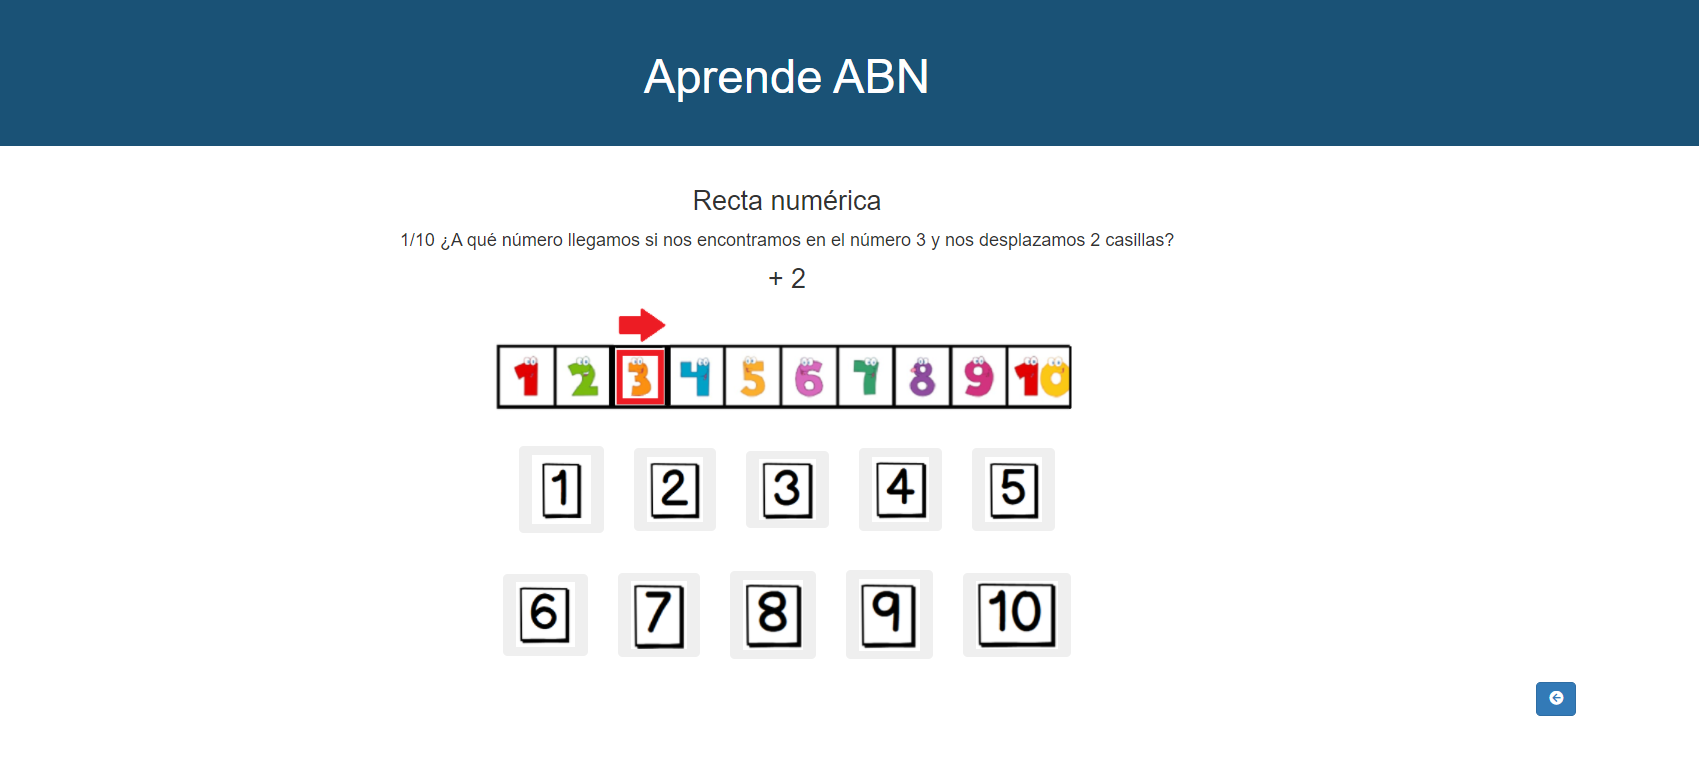
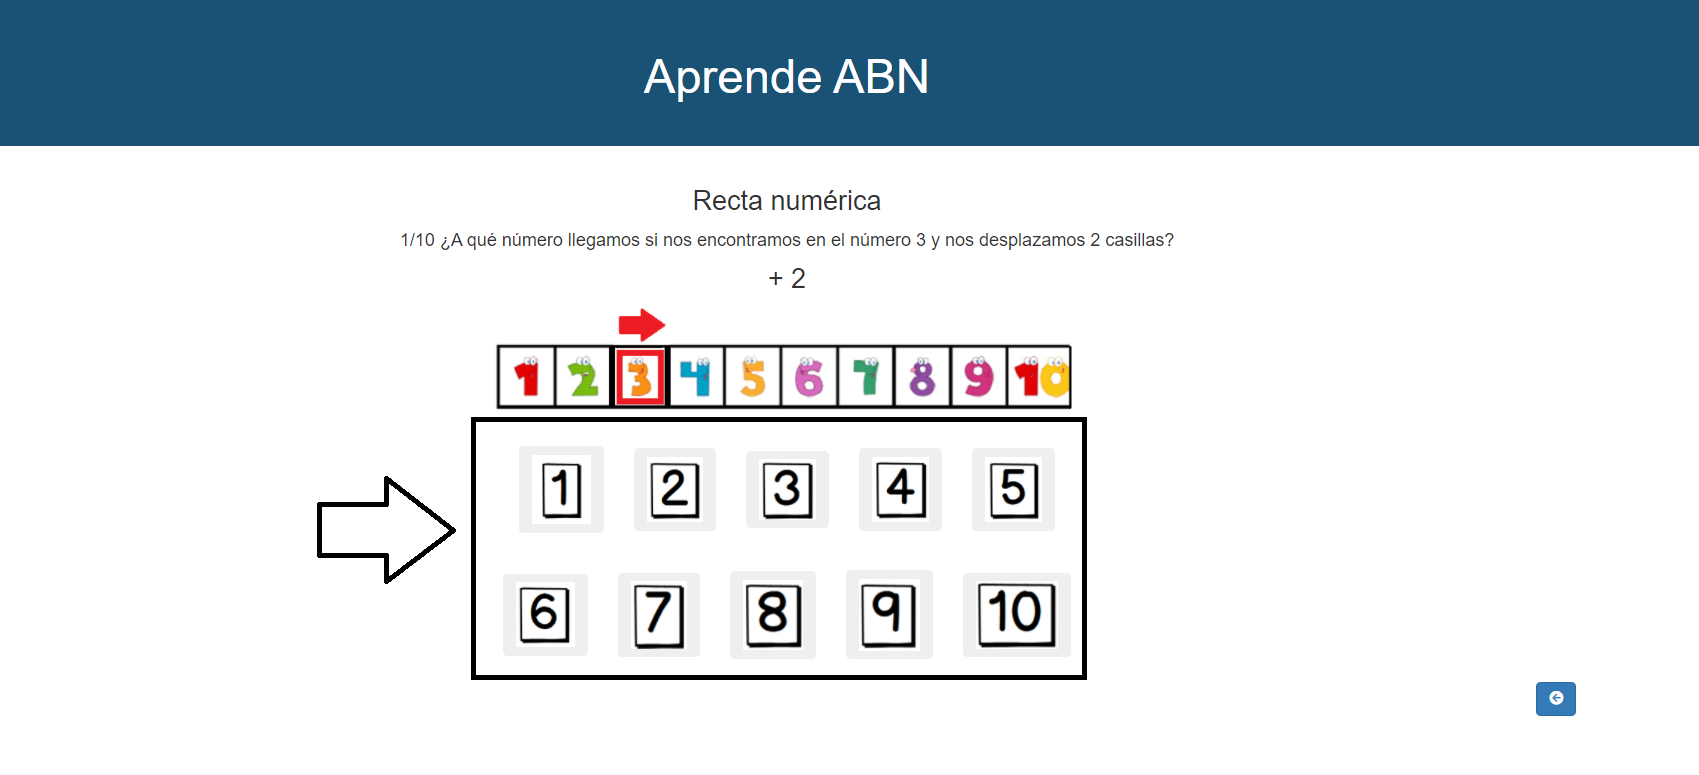
v1.0.11 Eliminar Clase

diff --git a/cliente/src/controlWeb.js b/cliente/src/controlWeb.js
@@ -7,7 +7,8 @@ function ControlWeb($){
 		cadena=cadena +'<h1>¡Bienvenid@ a Aprende ABN!</h1>';
 		cadena=cadena +'<h3>Para comenzar cree una clase</h3>';
 		cadena=cadena +'<h3>Si ya ha creado una pulse "Buscar Clase"</h3>';
-		cadena=cadena+'<button type="button" id="btnCrearClase" class="btn btn-success  btn-lg"><i class="fas fa-plus"></i> Crear Clase</button>';
+		cadena=cadena + '<h3>Para eliminar una clase ya creada pulse "Crear/Eliminar Clase"</h3>';
+		cadena=cadena+'<button type="button" id="btnCrearClase" class="btn btn-success  btn-lg"><i class="fas fa-plus"></i> Crear/Eliminar Clase</button>';
 		cadena=cadena +'<h4></h4>';
 		cadena=cadena+'<button type="button" id="btnBuscarClase" class="btn btn-danger btn-lg"><i class="fas fa-search"></i> Buscar clase</button>';
 		cadena=cadena +'</div>';
@@ -124,8 +125,9 @@ function ControlWeb($){
 		cadena=cadena +'<label class="pull-left"  for ="numero">Numero de participantes:</label>';
 		cadena=cadena +'<input type="number" class="form-control" size="50" id="numero" min="1" max="12" placeholder="Numero de alumnos de la clase (1-12)">';
 		cadena=cadena +'</div>';
-		cadena=cadena+'<button type="button" id="btnCrearClase" class="btn btn-success btn-lg"><span class="fas fa-plus"></span> Crear Clase</button>';
-		cadena=cadena+'<button type="button" id="btnAtras" class="btn btn-primary btn-lg pull-right"><i class="fas fa-arrow-circle-left"></i></button>';
+		cadena=cadena+'<button type="button" id="btnCrearClase" class="btn btn-success btn-lg" style="margin: 20px"><span class="fas fa-plus"></span> Crear Clase</button>';
+		cadena=cadena+'<button type="button" id="btnEliminarClase" class="btn btn-danger btn-lg" style="margin: 20px"><i class="fas fa-times"></i> Eliminar Clase</button>';
+		cadena=cadena+'<button type="button" id="btnAtras" class="btn btn-primary btn-lg pull-right" style="margin: 20px"><i class="fas fa-arrow-circle-left"></i></button>';
 		cadena=cadena +'</div>';
 		$('#crearClase').append(cadena);
 		$('#btnCrearClase').on('click',function(){
@@ -136,9 +138,18 @@ function ControlWeb($){
 				ws.crearClase(nclase,profesor,numero);
 			}
 		});
+		$('#btnEliminarClase').on('click',function(){
+			var nclase=$('#nclase').val();
+			if(nclase!=""){
+				ws.eliminarClase(nclase);
+			}
+		});
 		$('#btnInfo').on('click',function(){
 			var msg="Para poder completar el registro de la clase con éxito será necesario rellenar todos los campos que se muestran.";
 			msg=msg+"No se podrá crear una clase con más de 12 alumnos y tampoco se creará la clase si ya exite una clase con dicho nombre.";
+			msg=msg+"<img src='cliente/images/help/28.png' width='700' height='350'></img><p></p>";
+			msg=msg+"Para eliminar una de las clases simplemente hay que introducir el nombre exacto de la clase y despues clicar en eliminar";
+			msg=msg+"<img src='cliente/images/help/29.png' width='700' height='350'></img><p></p>";
 			cw.mostrarModal(msg);
 		});
 		$('#btnAtras').on('click',function(){
@@ -281,7 +292,7 @@ function ControlWeb($){
 			cw.mostrarModal(msg);
 		});
 		}else{
-			cadena=cadena+'<button type="button" id="btnInfo" class="btn btn-success btn-sm pull-right"><i class="fas fa-question-circle"></i></button>';
+			cadena=cadena+'<button type="button" id="btnInfo" class="btn btn-success btn-sm "><i class="fas fa-question-circle"></i></button>';
 			cadena=cadena+'<button type="button" id="btnAtras" class="btn btn-primary btn-lg pull-right"><i class="fas fa-arrow-circle-left"></i></button>';
 			cadena =cadena+ '</div>';
 			$('#listarClases').append(cadena);
@@ -806,6 +817,13 @@ function ControlWeb($){
 		$('#btnAtras').on('click',function(){
 			cw.mostrarEjercicios4();
 		});
+		$('#btnInfo').on('click',function(){
+			var msg="Selecciona el número de objetos de la imagen pulsando uno de los botones que contengan números";
+			msg=msg+"<img src='cliente/images/help/26.png' width='700' height='350' ></img><p></p>";
+			msg=msg+"Una vez seleccionado ese botón se mostrará si la solucion es o no correcta y para continuar se deberá de clicar el boton 'Siguiente'";
+			msg=msg+"<img src='cliente/images/help/27.png' width='700' height='350' ></img><p></p>";
+			cw.mostrarModal(msg);
+		});
 	}
 	//Función para comprobar que la opción elegida corresponde con la solucíon al 2º ejercicio para niños de 4 años
 	this.comprobar42=function(e42,num,score,b){
@@ -949,6 +967,13 @@ function ControlWeb($){
 				cw.resultado51(e51,num,score,count,"btn-danger",m);
 			}
 		});
+		$('#btnInfo').on('click',function(){
+			var msg="Pulse en la imagen de la mano hasta encontrar la solucion correcta despues clique en 'Hecho'";
+			msg=msg+"<img src='cliente/images/help/16.png' width='700' height='350' ></img><p></p>";
+			msg=msg+"Una vez seleccionado ese botón se mostrará si la solucion es o no correcta y para continuar se deberá de clicar el boton 'Siguiente'";
+			msg=msg+"<img src='cliente/images/help/17.png' width='700' height='350' ></img><p></p>";
+			cw.mostrarModal(msg);
+		});
 	}
 	//Interfaz para mostrar la retroalimentación del ejercicio 1º para niños de cinco años
 	this.resultado51=function(e51,num,score,count,b,m){
@@ -1019,6 +1044,13 @@ function ControlWeb($){
 				cw.resultado52(e52,num,score,count,"btn-danger",m);
 			}
 
+		});
+		$('#btnInfo').on('click',function(){
+			var msg="Pulse en la imagen de la mano hasta encontrar la solucion correcta despues clique en 'Hecho'";
+			msg=msg+"<img src='cliente/images/help/18.png' width='700' height='350' ></img><p></p>";
+			msg=msg+"Una vez seleccionado ese botón se mostrará si la solucion es o no correcta y para continuar se deberá de clicar el boton 'Siguiente'";
+			msg=msg+"<img src='cliente/images/help/19.png' width='700' height='350' ></img><p></p>";
+			cw.mostrarModal(msg);
 		});
 	}
 
@@ -1258,6 +1290,15 @@ function ControlWeb($){
 		$('#btnAtras').on('click',function(){
 			cw.mostrarEjercicios1();
 		});
+		$('#btnInfo').on('click',function(){
+			var msg="Pulse en los distintos botones de 'Elegir'";
+			msg=msg+"<img src='cliente/images/help/20.png' width='700' height='400' ></img><p></p>";
+			msg=msg+"Seleccione uno de las opciones que se le proporcionan";
+			msg=msg+"<img src='cliente/images/help/21.png' width='700' height='400' ></img><p></p>";
+			msg=msg+"Para continuar con el siguiente ejercicio pulse 'Siguiente'";
+			msg=msg+"<img src='cliente/images/help/22.png' width='700' height='400' ></img><p></p>";
+			cw.mostrarModal(msg);
+		});
 	}
 	this.ejercicio12=function(e12,score,btn,btn2){
 		this.limpiar();
@@ -1420,6 +1461,16 @@ function ControlWeb($){
 		});
 		$('#btnAtras').on('click',function(){
 			cw.mostrarEjercicios1();
+		});
+
+		$('#btnInfo').on('click',function(){
+			var msg="Pulse en los distintos botones de 'Elegir'";
+			msg=msg+"<img src='cliente/images/help/23.png' width='700' height='400' ></img><p></p>";
+			msg=msg+"Seleccione uno de las opciones que se le proporcionan";
+			msg=msg+"<img src='cliente/images/help/24.png' width='700' height='400' ></img><p></p>";
+			msg=msg+"Para continuar con el siguiente ejercicio pulse 'Siguiente'";
+			msg=msg+"<img src='cliente/images/help/25.png' width='700' height='400' ></img><p></p>";
+			cw.mostrarModal(msg);
 		});
 	}
 

diff --git a/servidor/modelo.js b/servidor/modelo.js
@@ -15,6 +15,19 @@ function ABN(){
 		}
 
 	}
+	//Funcion para eliminar clases introduciendo su numbre
+	this.eliminarClase=function(nclase){
+		if(this.clases[nclase]){
+			this.puedeEliminarClase(nclase);
+			return nclase;
+		}else{
+			return undefined;
+		}
+	}
+
+	this.puedeEliminarClase=function(nclase){
+		delete this.clases[nclase];
+	}
 	//Se comprueban los límites de alumnos para la creación de clases
 	//En este caso, el número mínimo de alumnos que pueden estar en una clase es 1,
 	//y el número máximo de alumnos por clase es de 40
@@ -56,6 +69,7 @@ function ABN(){
 		return lista;
 
 	}
+	//Método necesaria para poder eliminar a los alumnos de una determinada clase
 	this.eliminarAlumno=function(nclase,nombre){
 		var lista=[];
 		lista=this.clases[nclase].eliminarAlumno(nombre);

diff --git a/cliente/src/clienteWS.js b/cliente/src/clienteWS.js
@@ -11,6 +11,9 @@ function ClienteWS(){
 		this.nclase=nclase;
 		this.socket.emit("crearClase",nclase,profesor,numParticipantes);
 	}
+	this.eliminarClase=function(nclase){
+		this.socket.emit("eliminarClase",nclase);
+	}
 	this.listaClases=function(){
 		this.socket.emit("listarClases");
 	}
@@ -49,6 +52,10 @@ function ClienteWS(){
 				console.log("La clase no se ha creado correctamente: es indefinida");
 				cw.mostrarModal(" No se puede crear la clase ya que: <p>1.Ya existe una clase con ese nombre</p><p>2.No ha rellenado todos los campos</p>");
 			}
+		});
+		this.socket.on("claseEliminada",function(data){
+			cw.mostrarInicio();
+			cw.mostrarModal(" Clase "+nclase+" eliminada");
 		});
 		this.socket.on("mostrarLista",function(lista){
 			console.log(lista);

diff --git a/servidor/servidorWS.js b/servidor/servidorWS.js
@@ -26,6 +26,14 @@ function ServidorWS(){
                 }
                 
             });
+            socket.on('eliminarClase', function(nclase) {
+                var nclase=app.eliminarClase(nclase); 
+                if(nclase!=undefined){
+                    console.log("Se ha eliminado la clase "+nclase+"");              
+                    cli.enviarRemitente(socket,"claseEliminada",nclase);
+                }
+                
+            });
             socket.on('listarClases', function() {
                 var lista=app.listarClases();            
                 cli.enviarRemitente(socket,"mostrarLista",lista);

diff --git a/servidor/ModeloSpec.js b/servidor/ModeloSpec.js
@@ -44,6 +44,13 @@ describe("Aplicación AprendeABN", function() {
 			expect(Object.keys(clase.alumnos).length).toEqual(0);
 		});
 
+		it("Comprobación eliminar clase",function(){
+			abn.eliminarClase(nc);
+			expect(Object.keys(abn.clases).length).toEqual(0);
+			var clase=abn.clases[nc];
+			expect(clase).toBe(undefined);
+		});
+
 		it("Comprobación entrar a clase",function(){
 			abn.entrarClase(nc);
 			var clase=abn.clases[nc];
